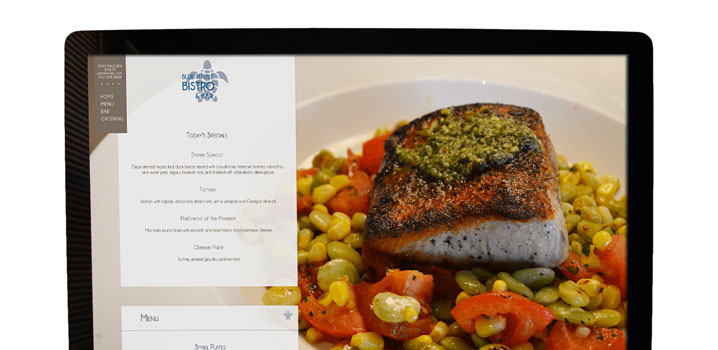
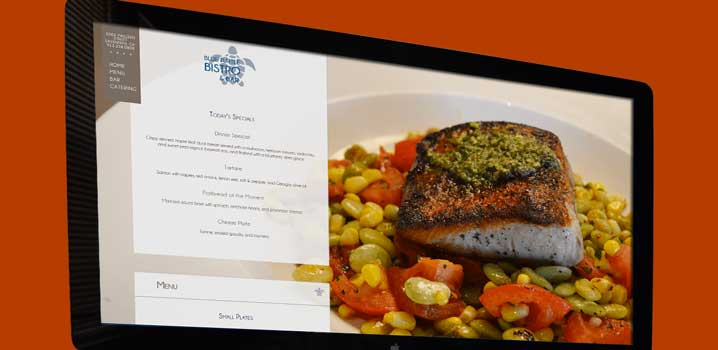
background changes

diff --git a/css/style.css b/css/style.css
@@ -54,7 +54,7 @@ article h2 {
 
 #first { background:#ff7260 50% 0 no-repeat fixed; height:530px; }
 #second { background:#9bd7d5 50% 0 no-repeat fixed; height:400px; }
-#third { background: #7567b2 50% 0 no-repeat fixed; height:600px; }
+#third { background: #ffffff 50% 0 no-repeat fixed; height:600px; }
 
 /* Introduction */
 #first .kdlogo { 
